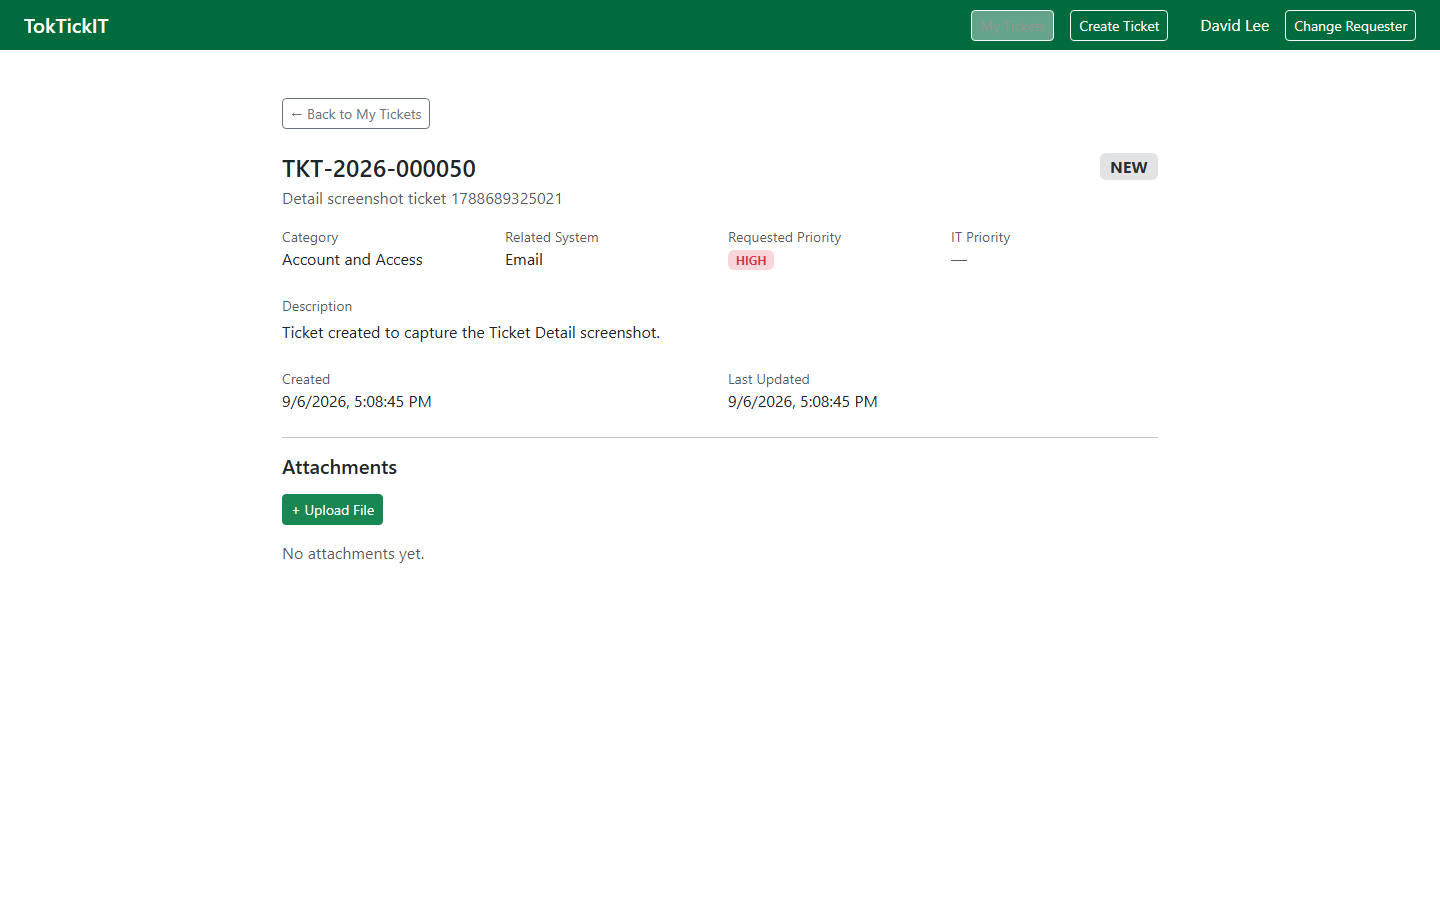
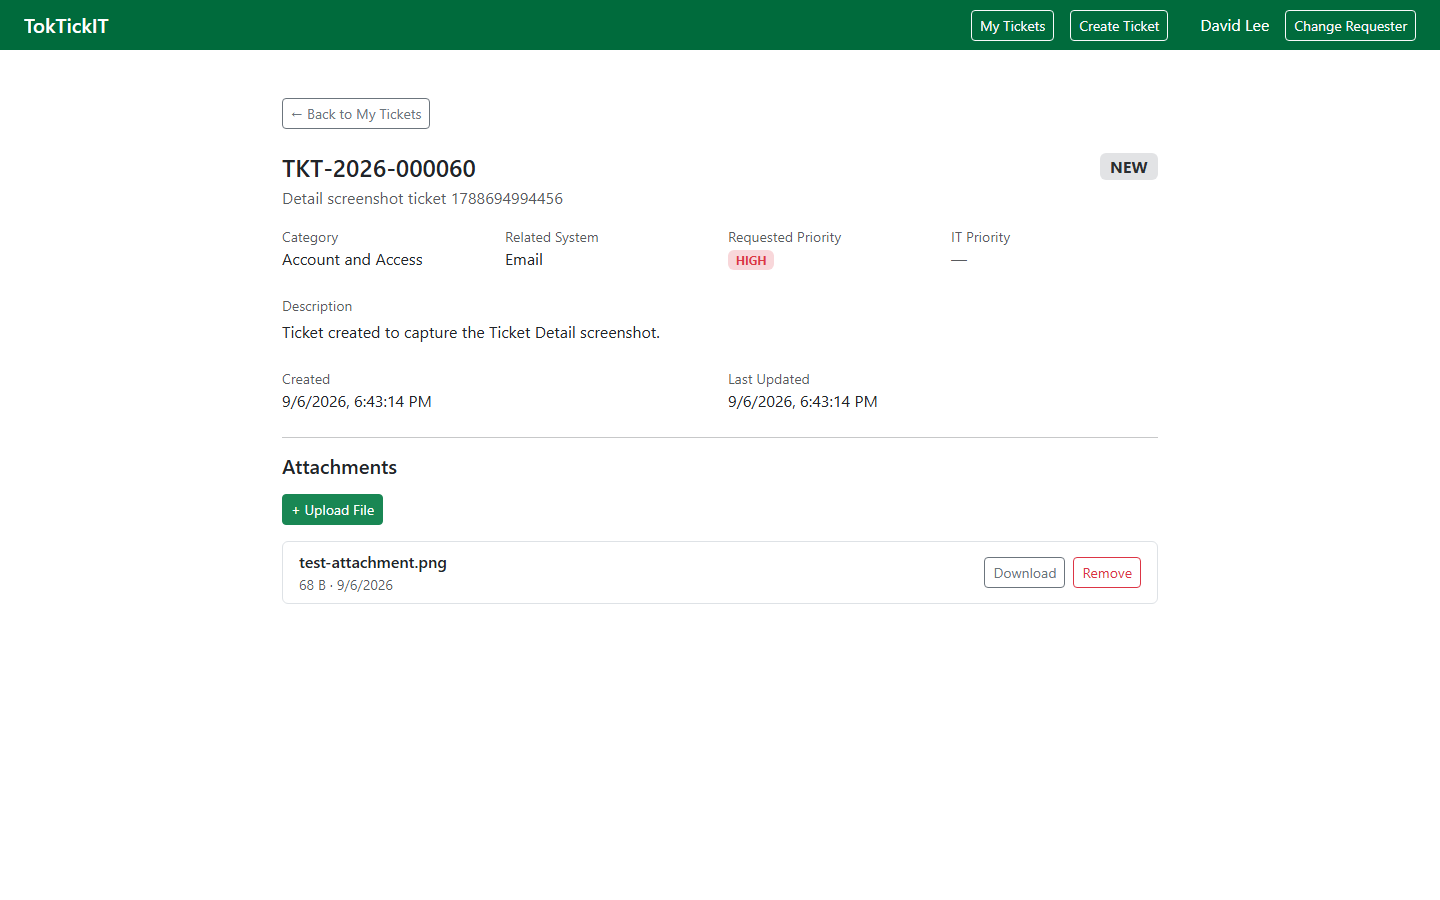
fix(e2e): upload real attachment before ticket-detail screenshot capture

diff --git a/client/tests-e2e/screenshots.spec.ts b/client/tests-e2e/screenshots.spec.ts
@@ -2,6 +2,20 @@ import { test, expect, Page } from "@playwright/test";
 import path from "path";
 import fs from "fs";
 
+const FIXTURE_DIR = path.join(process.cwd(), "tests-e2e", "fixtures");
+const FIXTURE_FILE = path.join(FIXTURE_DIR, "test-attachment.png");
+
+test.beforeAll(() => {
+  fs.mkdirSync(FIXTURE_DIR, { recursive: true });
+  if (!fs.existsSync(FIXTURE_FILE)) {
+    const tinyPng = Buffer.from(
[1 lines of base64/hex data omitted]
+      "base64"
+    );
+    fs.writeFileSync(FIXTURE_FILE, tinyPng);
+  }
+});
+
 // Issue 7 — Visual/responsive evidence capture (Lab 2).
 // Generates the screenshots required by the Lab 2 handout under
 // artifacts/lab-02/screenshots/<screen>/<viewport>-<state>.png
@@ -136,12 +150,19 @@ test.describe("Lab 2 screenshot capture", () => {
     await page.locator("#summary").fill(uniqueSummary);
     await page.locator("#description").fill("Ticket created to capture the Ticket Detail screenshot.");
     await page.getByRole("button", { name: "Submit Ticket" }).click();
+    await expect(page.getByText(/Ticket TKT-\d{4}-\d{6} created/)).toBeVisible({ timeout: 15000 });
     await page.getByRole("button", { name: "View My Tickets" }).click();
     await page.getByPlaceholder("Search by ticket number or summary…").fill(uniqueSummary);
     const ticketRow = page.locator("tbody tr", { hasText: uniqueSummary });
     await expect(ticketRow).toBeVisible({ timeout: 10000 });
     await ticketRow.click();
     await expect(page.getByRole("heading", { name: "Attachments" })).toBeVisible();
+
+    // Upload a real attachment so this screenshot shows the attachment
+    // lifecycle instead of an empty "No attachments yet." state.
+    await page.setInputFiles('input[type="file"]', FIXTURE_FILE);
+    await expect(page.getByText("test-attachment.png")).toBeVisible({ timeout: 10000 });
+
     await page.screenshot({
       path: outPath("ticket-detail", `${testInfo.project.name.toLowerCase()}-owned-ticket.png`),
       fullPage: true,
